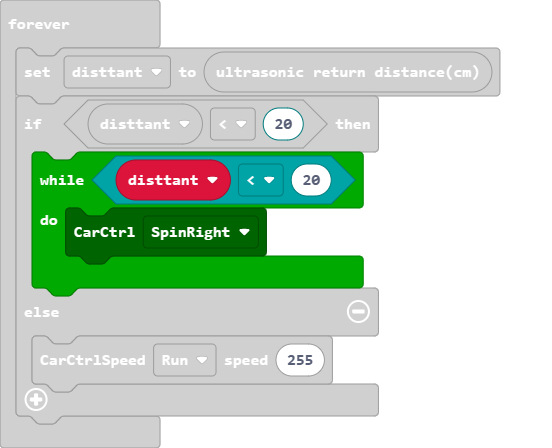
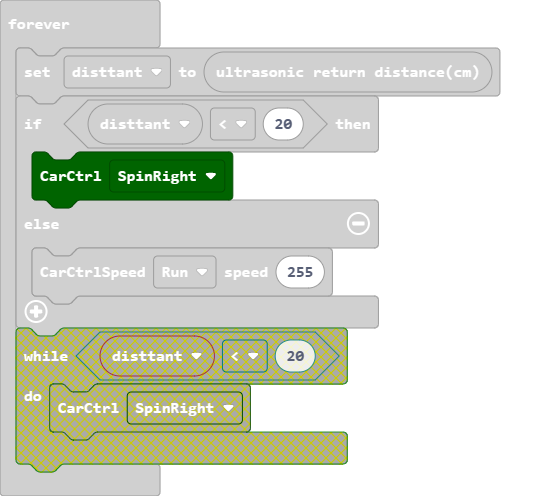
Update main.blocks, main.ts

diff --git a/main.ts b/main.ts
@@ -2,9 +2,7 @@ let disttant = 0
 basic.forever(function () {
     disttant = Tinybit.Ultrasonic_Car()
     if (disttant < 20) {
-        while (disttant < 20) {
-            Tinybit.CarCtrl(Tinybit.CarState.Car_SpinRight)
-        }
+        Tinybit.CarCtrl(Tinybit.CarState.Car_SpinRight)
     } else {
         Tinybit.CarCtrlSpeed(Tinybit.CarState.Car_Run, 255)
     }
